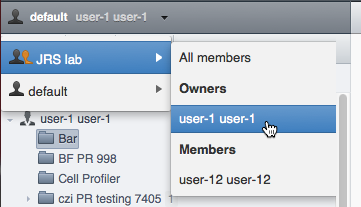
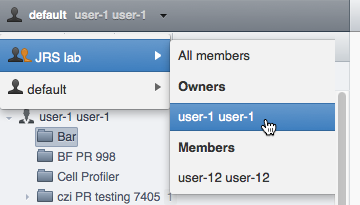
screenshot cleanup

diff --git a/2015/public-repository-workshop-paris/index.html b/2015/public-repository-workshop-paris/index.html
@@ -164,8 +164,8 @@ $ bin/omero config set omero.web.public.url_filter '^/(?!webadmin|webclient/(act
                 
                 <section>
                     <h2>LINK https://...</h2>
-                    <p><a href="https://nightshade.openmicroscopy.org/webgateway/img_detail/3933597/" target="_blank">https://omero/webgateway/image_detail/12345/</a></p>
-                        <p><a href="https://nightshade.openmicroscopy.org/webgateway/render_thumbnail/3933597/200/200" target="_blank">https://omero/webgateway/render_thumbnail/12345/W/H/</a></p>
+                    <p><a href="https://learning.openmicroscopy.org/dundee/webgateway/img_detail/1297/" target="_blank">https://omero/webgateway/image_detail/12345/</a></p>
+                        <p><a href="https://learning.openmicroscopy.org/dundee/webgateway/render_thumbnail/1297/200/200/" target="_blank">https://omero/webgateway/render_thumbnail/12345/W/H/</a></p>
 
                     
                     <img height="500px" src="images/publish2.png"/>
@@ -232,12 +232,18 @@ $ bin/omero config set omero.web.public.url_filter '^/(?!webadmin|webclient/(act
                 </section>
 
                 <section>
+                    <h2>Index page</h2>
+                    <pre><code contenteditable style="font-size:90%" class="bash">$ bin/omero config set omero.web.index_template 'mytemplate/test.html'
+$ bin/omero config set omero.web.template_dirs '/your/path/to/templates/'
+</code></pre>
+                    <img src="images/index_page.png" width='550px' class="no_shadow"/>
+                </section>
+
+                <section>
                     <h2>Login screen</h2>
-                        <pre><code contenteditable style="font-size:90%" class="bash">
-$ bin/omero config set omero.web.login_logo 'http://www.url/to/image.png'
-                        </code></pre>
+                        <pre><code contenteditable style="font-size:90%" class="bash">$ bin/omero config set omero.web.login_logo 'http://www.url/to/image.png'</code></pre>
                     <img src="images/custom_login.png"
-                        width="450px"/><br>
+                        width="597px"/><br>
                 </section>
 
                 <section>
@@ -276,14 +282,6 @@ def custom_index(request, conn=None, **kwargs):
 omeroweb.webstart.views.custom_index = custom_index
 </code></pre>
 
-                </section>
-
-                <section>
-                    <h2>Index page</h2>
-                    <pre><code contenteditable style="font-size:90%" class="bash">$ bin/omero config set omero.web.index_template 'mytemplate/test.html'
-$ bin/omero config set omero.web.template_dirs '/your/path/to/templates/'
-</code></pre>
-                    <img src="images/index_page.png" width='550px' class="no_shadow"/>
                 </section>
 
                 <section>
